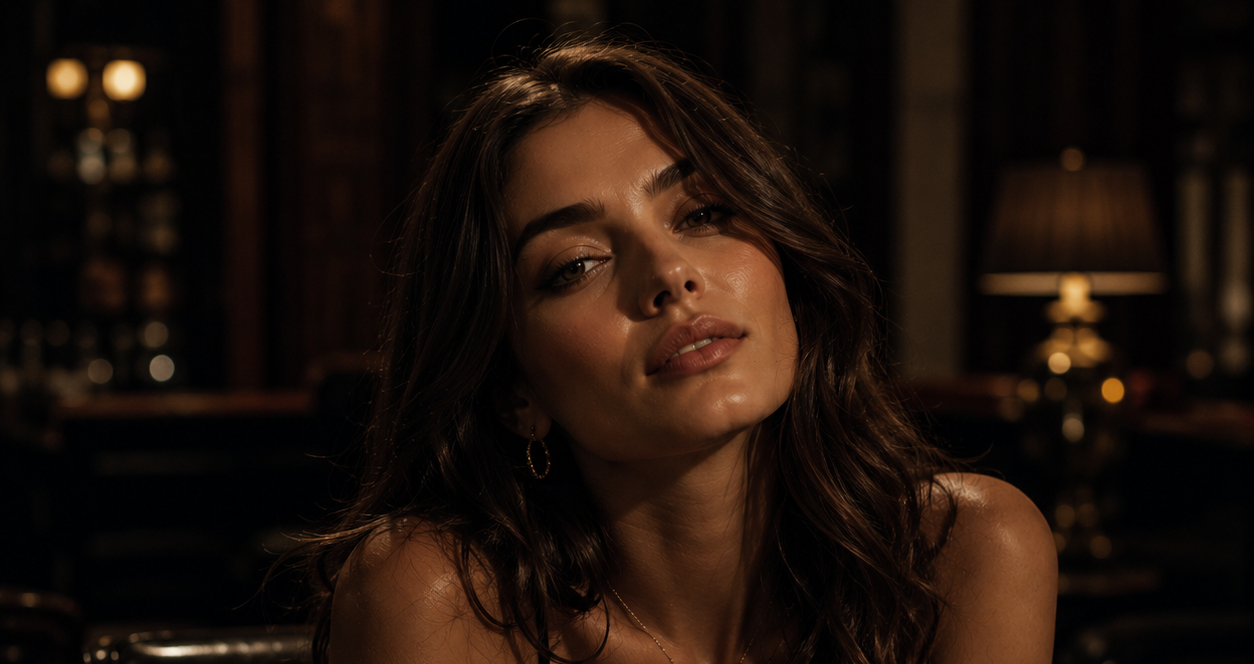
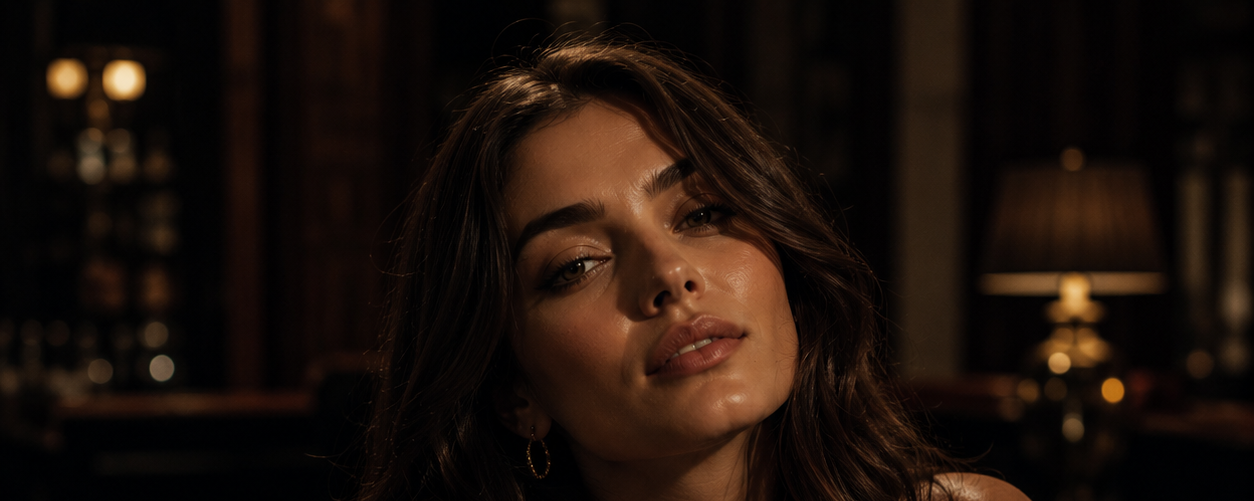
Tighter neck-up crop on arena / socialite / shy_girl (build +82)
The 0.53 crop left bare shoulders/straps on three of the ten. Re-cropped
these from the full-res originals at 0.40 so they cut cleanly at the neck —
faces fully intact, no shoulders, no straps. Removes the last Practice-grid
skin an App Review reviewer would see (Guideline 1.1.4).

Claude-Session: https://claude.ai/code/session_01Rt6Sb12eRmDG19zpDRtg6f

diff --git a/lib/config/dev_flags.dart b/lib/config/dev_flags.dart
@@ -85,4 +85,4 @@ const kForceOnboarding = false;
 /// tell which build is actually installed on-device (TestFlight lag has
 /// repeatedly made us debug a stale build). Bump this with every pubspec
 /// build-number bump.
-const kBuildTag = 'b81-funnel'
+const kBuildTag = 'b82-crop'
